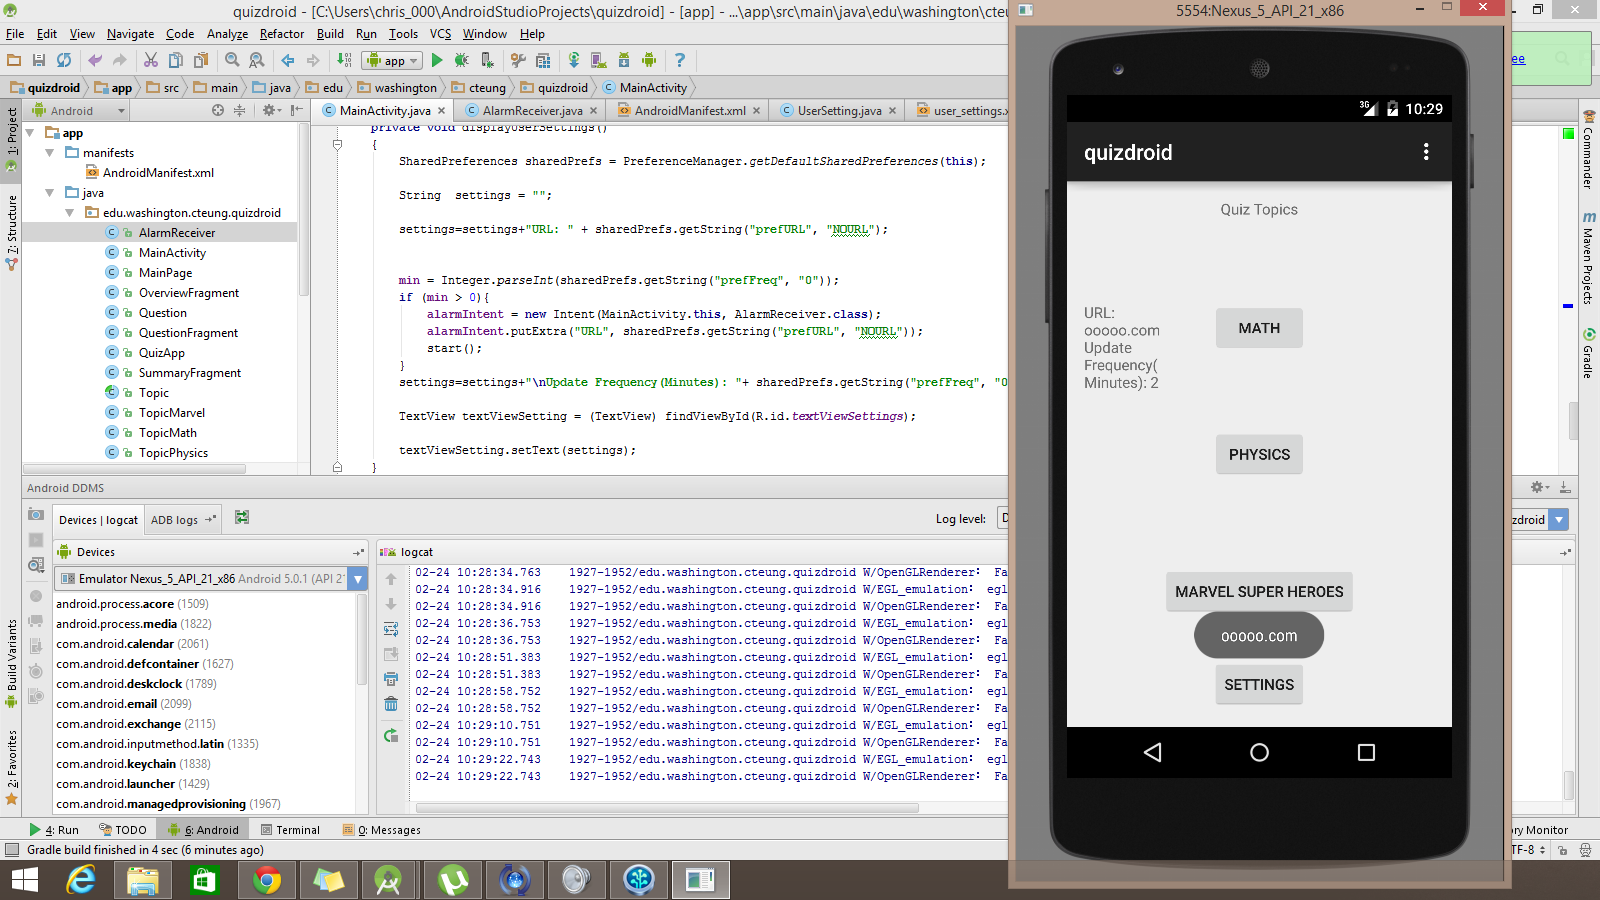
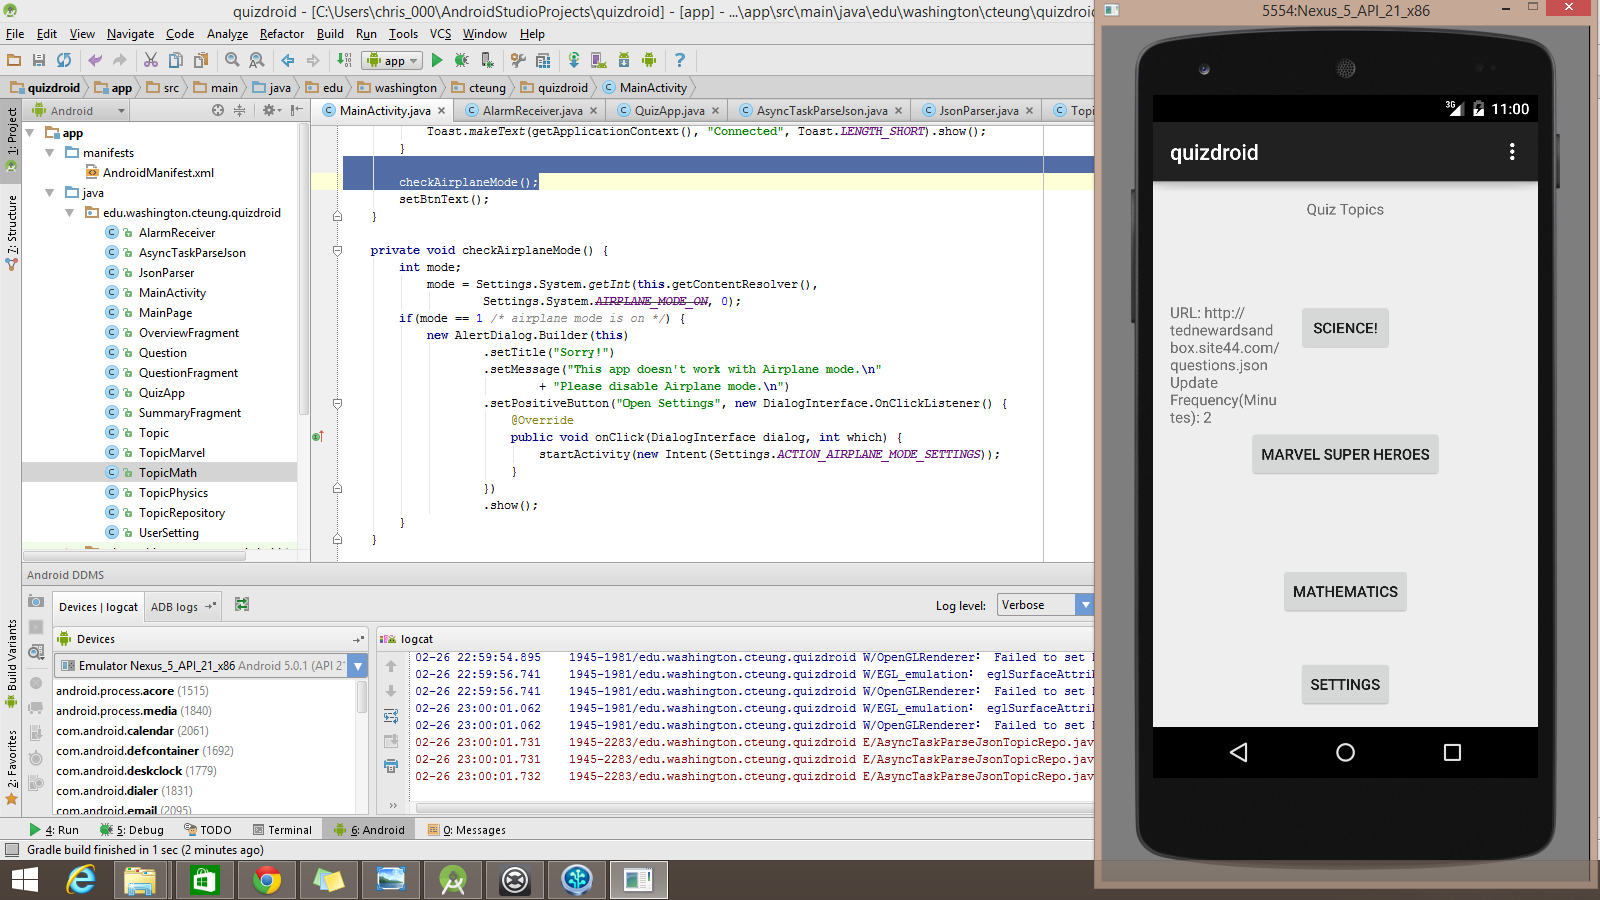
no message

diff --git a/app/src/main/java/edu/washington/cteung/quizdroid/MainActivity.java b/app/src/main/java/edu/washington/cteung/quizdroid/MainActivity.java
@@ -21,9 +21,12 @@ import android.widget.Button;
 import android.widget.TextView;
 import android.widget.Toast;
 
+import org.json.JSONArray;
+
 import java.io.FileOutputStream;
 import java.io.IOException;
 import java.io.InputStream;
+import java.io.OutputStreamWriter;
 
 
 public class MainActivity extends ActionBarActivity {
@@ -57,7 +60,7 @@ public class MainActivity extends ActionBarActivity {
 
                 // add data to be passed to next activity
                 nextActivity.putExtra("topic", tr.getTopicAtIndex(0));
-                b0.setText(tr.getTopicAtIndex(0).getTitle());
+                setBtnText();
 
                 if (nextActivity.resolveActivity(getPackageManager()) != null) {
                     startActivity(nextActivity); // opens a new activity
@@ -78,7 +81,7 @@ public class MainActivity extends ActionBarActivity {
 
                 // add data to be passed to next activity
                 nextActivity.putExtra("topic", tr.getTopicAtIndex(1));
-                b1.setText(tr.getTopicAtIndex(1).getTitle());
+                setBtnText();
 
                 if (nextActivity.resolveActivity(getPackageManager()) != null) {
                     startActivity(nextActivity); // opens a new activity
@@ -99,7 +102,7 @@ public class MainActivity extends ActionBarActivity {
 
                 // add data to be passed to next activity
                 nextActivity.putExtra("topic", tr.getTopicAtIndex(2));
-                b2.setText(tr.getTopicAtIndex(2).getTitle());
+                setBtnText();
 
                 if (nextActivity.resolveActivity(getPackageManager()) != null) {
                     startActivity(nextActivity); // opens a new activity
@@ -129,6 +132,7 @@ public class MainActivity extends ActionBarActivity {
         }
 
         checkAirplaneMode();
+        //setBtnText();
     }
 
     private void checkAirplaneMode() {
@@ -227,6 +231,30 @@ public class MainActivity extends ActionBarActivity {
 
     public static Context getAppContext() {
         return activity;
+    }
+
+    public static void saveJson(JSONArray ja){
+        // try to write the content
+        try {
+            // open myfilename.txt for writing
+            OutputStreamWriter out = new OutputStreamWriter(getAppContext().openFileOutput("quizdata.json", Context.MODE_PRIVATE));
+            // write the contents on mySettings to the file
+            out.write(ja.toString());
+            // close the file
+            out.close();
+        } catch (java.io.IOException e) {
+            //do something if an IOException occurs.
+        }
+    }
+
+    public void setBtnText(){
+        TopicRepository tr = QuizApp.getInstance().getTr();
+        Button b0 = (Button) findViewById(R.id.btn0);
+        b0.setText(tr.getTopicAtIndex(0).getTitle());
+        Button b1 = (Button) findViewById(R.id.btn1);
+        b1.setText(tr.getTopicAtIndex(1).getTitle());
+        Button b2 = (Button) findViewById(R.id.btn2);
+        b2.setText(tr.getTopicAtIndex(2).getTitle());
     }
 
 }

diff --git a/app/src/main/java/edu/washington/cteung/quizdroid/QuizApp.java b/app/src/main/java/edu/washington/cteung/quizdroid/QuizApp.java
@@ -5,13 +5,17 @@ import android.content.Context;
 import android.content.SharedPreferences;
 import android.preference.PreferenceManager;
 import android.util.Log;
+import android.widget.Button;
 
 import org.json.JSONArray;
 import org.json.JSONException;
 
+import java.io.BufferedReader;
+import java.io.FileNotFoundException;
 import java.io.FileOutputStream;
 import java.io.IOException;
 import java.io.InputStream;
+import java.io.InputStreamReader;
 
 /**
  * Created by chris_000 on 2/16/2015.
@@ -43,19 +47,38 @@ public class QuizApp extends Application {
         SharedPreferences sharedPrefs = PreferenceManager.getDefaultSharedPreferences(this);
         MainActivity.url = sharedPrefs.getString("prefURL", "NOURL");
 
-        String filename = "quizdata.json";
-        String string = "Hello world!";
-        FileOutputStream outputStream;
+        String json = null;
 
         try {
-            outputStream = openFileOutput(filename, Context.MODE_PRIVATE);
-            outputStream.write(string.getBytes());
-            outputStream.close();
-        } catch (Exception e) {
-            e.printStackTrace();
+            InputStream inputStream = openFileInput("quizdata.json");
+
+            if ( inputStream != null ) {
+                InputStreamReader inputStreamReader = new InputStreamReader(inputStream);
+                BufferedReader bufferedReader = new BufferedReader(inputStreamReader);
+                String receiveString = "";
+                StringBuilder stringBuilder = new StringBuilder();
+
+                while ( (receiveString = bufferedReader.readLine()) != null ) {
+                    stringBuilder.append(receiveString);
+                }
+
+                inputStream.close();
+                json = stringBuilder.toString();
+
+                try {
+                    JSONArray ja = new JSONArray(json);
+                    QuizApp.getInstance().setTr(new TopicRepository(ja));
+                } catch (JSONException e) {
+                    e.printStackTrace();
+                }
+            }
+        }
+        catch (FileNotFoundException e) {
+            Log.e("login activity", "File not found: " + e.toString());
+        } catch (IOException e) {
+            Log.e("login activity", "Can not read file: " + e.toString());
         }
 
-        String json = null;
         try {
             InputStream is = getAssets().open("quizdata.json.txt");
             int size = is.available();
@@ -67,12 +90,7 @@ public class QuizApp extends Application {
 
             json = new String(buffer, "UTF-8");
 
-            try {
-                JSONArray ja = new JSONArray(json);
-                QuizApp.getInstance().setTr(new TopicRepository(ja));
-            } catch (JSONException e) {
-                e.printStackTrace();
-            }
+
 
 
         } catch (IOException ex) {

diff --git a/app/src/main/java/edu/washington/cteung/quizdroid/TopicRepository.java b/app/src/main/java/edu/washington/cteung/quizdroid/TopicRepository.java
@@ -41,9 +41,9 @@ public class TopicRepository {
 
                 for (int j = 0; j < q.length(); j++){
 
-                    String text = q.getJSONObject(i).getString("text");
-                    String answer = q.getJSONObject(i).getString("answer");
-                    String a = q.getJSONObject(i).getString("answers");
+                    String text = q.getJSONObject(j).getString("text");
+                    String answer = q.getJSONObject(j).getString("answer");
+                    String a = q.getJSONObject(j).getString("answers");
 
                     JSONArray answers = new JSONArray(a);
 
@@ -54,7 +54,7 @@ public class TopicRepository {
 
                     String[] as = new String[]{zero, one, two, three};
 
-                    qu.add(new Question(text, as, Integer.parseInt(answer)));
+                    qu.add(new Question(text, as, Integer.parseInt(answer)-1));
 
                 }
 

diff --git a/app/src/main/java/edu/washington/cteung/quizdroid/AsyncTaskParseJson.java b/app/src/main/java/edu/washington/cteung/quizdroid/AsyncTaskParseJson.java
@@ -9,6 +9,7 @@ import org.json.JSONArray;
 
 import java.io.File;
 import java.io.FileOutputStream;
+import java.io.OutputStreamWriter;
 
 /**
  * Created by chris_000 on 2/25/2015.
@@ -38,7 +39,7 @@ public class AsyncTaskParseJson extends AsyncTask<String, String, String> {
             json = jParser.getJSONFromUrl(MainActivity.url);
             QuizApp.getInstance().setTr(new TopicRepository(json));
             dl = true;
-
+            MainActivity.saveJson(json);
         }catch (Exception e) {
             dl = false;
         }
@@ -47,6 +48,7 @@ public class AsyncTaskParseJson extends AsyncTask<String, String, String> {
 
     @Override
     protected void onPostExecute(String strFromDoInBg) {
+
         if (!dl){
             alertDialog = new AlertDialog.Builder(MainActivity.getAppContext());
             alertDialog.setTitle("Sorry!");

diff --git a/app/src/main/java/edu/washington/cteung/quizdroid/AlarmReceiver.java b/app/src/main/java/edu/washington/cteung/quizdroid/AlarmReceiver.java
@@ -3,6 +3,7 @@ package edu.washington.cteung.quizdroid;
 import android.content.BroadcastReceiver;
 import android.content.Context;
 import android.content.Intent;
+import android.widget.Button;
 import android.widget.Toast;
 
 /**
@@ -16,6 +17,7 @@ public class AlarmReceiver extends BroadcastReceiver {
         String u = intent.getStringExtra("URL");
         // For our recurring task, we'll just display a message
         Toast.makeText(context, u, Toast.LENGTH_SHORT).show();
+
         new AsyncTaskParseJson().execute();
     }
 }
